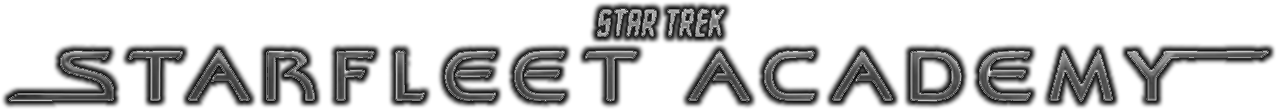
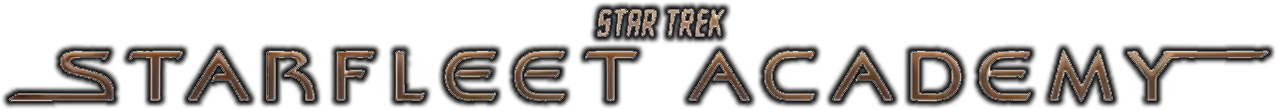
Blog entry and image renaming
SFA S1 Wrapped entry. Renaming of main title images (bw/c)

diff --git a/blog/2026-03-15-Starfleet_Academy_S1_Wrapped.html b/blog/2026-03-15-Starfleet_Academy_S1_Wrapped.html
@@ -1,0 +1,146 @@
+<!DOCTYPE html>
+<html lang="en">
+
+<head>
+
+<!-- Google tag (gtag.js) -->
+<script async src="https://www.googletagmanager.com/gtag/js?id=G-DM44X85QLJ"></script>
+<script>
+	window.dataLayer = window.dataLayer || [];
+	function gtag(){dataLayer.push(arguments);}
+	gtag('consent', 'default', {
+		'ad_user_data': 'denied',
+		'ad_personalization': 'denied',
+		'ad_storage': 'denied',
+		'analytics_storage': 'denied',
+		'wait_for_update': 500,
+	});
+	var host = window.location.hostname;
+	if (host !== "localhost" && host !== "127.0.0.1" && host !== "10.13.83.9" && host !== "") {
+		gtag('js', new Date());
+		gtag('config', 'G-DM44X85QLJ');
+	}
+</script>
+
+<meta content="text/html; charset=utf-8" http-equiv="Content-Type">
+<meta name="darkreader-lock" content="47">
+<link rel="stylesheet" href="/main.css?v=1.5.1">
+<link rel="stylesheet" href="/tts.css?v=1.5.1">
+<link rel="stylesheet" href="blog.css?v=1.5.1">
+<link rel="icon" type="image/x-icon" href="/images/favicon.ico">
+
+<meta property="og:title" content='Starfleet Academy Season 1 Wrapped | C6Reviews'>
+<meta property="og:type" content="article">
+<meta property="og:image" content="https://c6reviews.com/blog/images/2026-03-15/atrium.png">
+<meta property="og:url" content="https://c6reviews.com/blog/2026-03-15-Starfleet_Academy_S1_Wrapped.html">
+<meta property="og:description" content="C6 shares his thoughts on SFA Season 1">
+
+<script src="blog.js"></script>
+<script src="/tts.js"></script>
+<script src="/cookies.js"></script>
+<script>
+	function prepTextToSpeech(id)
+	{
+		let text = document.getElementById(id).innerText.replaceAll("Ake","Ah-kay").replaceAll("—",",").replace("The Academy atrium, graffitied and burning under the despotism of Nus Braka.","").replace("Sadly, Nus Braka's strange “origami chicken” comment in the series premiere was just a one-off and did not become any sort of running gag. Instead, we got a sort of lame, one-liner explanation for why he shaved a tic-tac-toe board into his hair.","").replace("❔","").replace("◼","");
+		return text;
+	}
+</script>
+
+<title>C6 | Starfleet Academy Season 1 Wrapped</title>
+</head>
+
+<body>
+
+<div id='kofiframediv'><iframe id="kofiframe" src='/loader.html' title="kofi frame"></iframe><span id="koficlose" onclick="document.getElementById('kofiframediv').style.height='0px';document.getElementById('kofiframediv').style.border='none';">&times;</span></div>
+
+<div class="c6Left"><a href="/index.html"><img src="/images/c6reviews-vert.png" alt="c6reviews"></a></div>
+<div class="pageTitleImage"><img src="/images/main-header.png" alt="Starfleet Delta" style="mask-image: linear-gradient(to right, rgba(0,0,0,1), rgba(0,0,0,0.8) 40%, rgba(0,0,0,0))"></div>
+<div class="pageTitleContainer">
+	<div class="pageTitle">
+		<a href="/index.html"><img src="/images/c6reviews-hor.png" style="width:350px" alt="c6reviews"></a><br>Starfleet Academy Season 1 Wrapped
+		<span class="pageSubtitle">&nbsp;</span>
+	</div>
+</div>
+<div class="c6Right"><a href="/index.html"><img src="/images/c6.png" alt="a smiling, pale-skinned android with C6 tattooed to his forehead"><img src="/images/c6reviews-hor-noglow.png" style="margin-top:3px" alt="c6reviews"></a><a href="/about.html" style="margin-top:8px;">ABOUT</a><a href="/updates.html">UPDATES</a><a href="/blog/index.html">BLOG</a><a style="cursor:pointer" onclick="if(document.getElementById('kofiframe').src!='https://ko-fi.com/c6reviews/?hidefeed=true&widget=true&embed=true&preview=true'){document.getElementById('kofiframe').src='https://ko-fi.com/c6reviews/?hidefeed=true&widget=true&embed=true&preview=true'};x=getComputedStyle(document.getElementById('kofiframediv')).height;if(x=='0px'){x='700px';y='1px solid white'}else{x='0px';y='none'};document.getElementById('kofiframediv').style.height=x;document.getElementById('kofiframediv').style.border=y;">SUPPORT</a><span class="bsky"><a href="https://bsky.app/profile/c6reviews.bsky.social" target="_blank"><img src="/images/bsky.png" style="width:20px;" alt="bluesky logo">@c6reviews.<br>bsky.social</a></span></div>
+
+
+<div onclick="scrollToTop()" id="toTopButton" title="Go to top">🔺<br>top</div> 
+
+
+<div id="backButton" onclick="window.location = 'index.html';"><span style="font-size:large;font-weight:bold">←</span><br>back</div>
+	
+<div class="content">
+
+	<div class="sectionHeader" style="margin-top:0px">
+		&ldquo;Today we're putting the Federation on trial&rdquo;
+		<span class="TTScontrols"><label><span class="ttsicon">🗣&#xFE0E;</span> <select id="ttsratemain" class="ttsrate"><option value="1">1x</option><option value="1.25">1.25x</option><option value="1.5">1.5x</option><option value="1.75">1.75x</option><option value="2">2x</option></select></label>
+		<button class="TTSplayButton" id="tts1pb" onclick="textToSpeech('tts1',prepTextToSpeech('articleContent'))">⏯&#xFE0E;</button><button class="TTSstopButton" onclick="speechStop()">⏹&#xFE0E;</button></span>
+	</div>
+	<div class="dateline">March 15, 2026</div>
+	
+	<div id="articleContent" style="font-family:CCS,Roboto,serif;">
+
+		<p>With Season 1 of <em>Starfleet Academy</em> officially in the books, of course I have some thoughts I wanted to share. With a more complete picture of what the show wants to be, my opinion has certainly changed a bit since <a href="2026-01-20-Starfleet_Academy_First_Thoughts.html">my initial optimism after episodes 1 and 2</a>, and then <a href="2026-01-25-Starfleet_Academy_Second_Thoughts.html">my note of concern after episode 3</a>. </p>
+		
+		<img src="images/2026-03-15/mir.png" class="articleImage" style="float:right" alt="a yearbook photo of Caleb Mir as a child, marked as part of the class of 3196">
+		
+		<p>I have a couple of things to get out of the way before getting into any specifics. First, I think that all of modern <em>Star Trek</em> &ndash; this show included &ndash; suffers from this 10-episode format, especially in their first seasons. We have brand-new characters that need to be introduced and backstories that need to be presented, and we have such a limited time to do it. As such, character introduction-episodes take up too great of a portion of the season, leaving us with less time for the &ldquo;meat and potatoes&rdquo; episodes. We've hardly gotten to know most of our characters, and we're already out of new stories until next year.</p>
+		
+		<p>The second thing I need to state clearly: I am not a young adult anymore, and this series is obviously targeting a young adult audience. Despite the fact that I <em>was</em> a young adult in the past and that I am capable of remembering life in those days, some of the topics and antics explored on this show just don't resonate with me anymore, and some are downright groan-worthy. However, I always try to temper my opinions with the knowledge that not every television show is written specifically &ldquo;for me&rdquo; and that other people exist. As a life-long fan of <em>Star Trek</em>, I will always try to see the good in each new show, but I will also not candy-coat the situation when I think something was done poorly. That being said, this show can hardly be considered to be <em>exclusively</em> a young adult drama &ndash; there is plenty of story here that doesn't focus on the daily minutiae of 20-somethings life.</p>
+		
+		<p>So many of the articles I read or videos I watch about this show either take the stance of hating every possible thing about it, or they artificially praise the show as a stroke of genius just to counter the former. I don't know why a measured approach is so rare to find. (Actually, I do know: articles that don't commit to an extreme that either supports your opinion or directly challenges it aren't as satisfying to read.) Is <em>Star Trek: Starfleet Academy</em> a terrible show with no redeeming qualities? Certainly not! Is it a masterpiece to be lauded as the finest example of modern storytelling? Also certainly not. <em>It's okay to have mixed feelings about the show.</em></p>
+		
+		<p>Okay, I've stood on my soap box for far too long. Let's get into it:</p>
+		
+		<p><strong><span style="font-size:large;text-shadow: red 2px 2px 8px">👎 </span>Furniture without legs was an unsustainable style choice</strong> &mdash; I want to open with this niche complaint about the setting. This story takes place in the 32nd century, after the events of seasons 3-5 of <em>Star&nbsp;Trek:&nbsp;Discovery</em>, which was the first show to introduce what life was like in this far-future. One of the defining style characteristics for this century as depicted in <em>Discovery</em> &ndash; for whatever reason &ndash; was furniture that just &ldquo;floated&rdquo;. Chairs and tables did not have legs reaching down to the ground. This was done, obviously, with CGI manipulation. And that CGI manipulation was, obviously, not going to be practical to maintain in every future scene that takes place in the 3100s. And so, here we are, back to more traditional leg-based furniture.</p>
+		
+		<p><strong><span style="font-size:large;text-shadow: green 2px 2px 8px">👍 </span>Holly Hunter as Nahla Ake</strong> &mdash; I admit, I was skeptical at first, but I really warmed up to Hunter's portrayal of the Academy Chancellor. Ake brings a warmth and wisdom to the students while also being a strong commanding officer.</p>
+		
+		<p><strong><span style="font-size:large;text-shadow: blue 2px 2px 8px">🤷♂ </span>War College rivalry</strong> &mdash; I mean, obviously part of being in a higher-education institution is having some rivalry with some other higher-education institution so... this was definitely necessary, right? I'm not really sure. The War College only appears in a few episodes, just to have that rivalry, and they never really became an important part of the overall season.</p>
+		
+		<p><strong><span style="font-size:large;text-shadow: green 2px 2px 8px">👍 </span>Jay-Den's backstory</strong> &mdash; ah, now here's something <em>Star Trek</em> is known for: using alien cultures to hold up a mirror to our own. Here, Jay-Den feeling like a black sheep in his own family because he doesn't conform to traditional Klingon values is an allegory for today's youth who may face strife in their own families when questioning their own identities and values. Of course, the metaphor here may be a little on the nose for some people, inviting some vitriolic reactions from other commentators, but I invite you to remember that Klingons are a fictional race in a fictional universe.</p>
+		
+		<p><strong><span style="font-size:large;text-shadow: red 2px 2px 8px">👎 </span>Reymi's backstory</strong> &mdash; Darem Reymi is just all over the place. Producers invented a brand-new, never-before-seen species for the show, and we ended up with... someone who looks perfectly human, but can turn into a fish-like creature with gills which can conveniently withstand the vacuum of space, has trouble digesting many foods, vomits glitter, starts off as a bully, but is really just misunderstood because he's actually... *rolls dice* a prince, why not? I want to like this character, I just need him to find his center. I'm hoping that next season will help to better shape Reymi's character, because as it stands, I felt like his backstory episode was more of a detracting side-quest than a vital part of the story.</p>
+		
+		<p><strong><span style="font-size:large;text-shadow: blue 2px 2px 8px">🤷♂ </span>Ake killed her own son, or something?</strong> &mdash; This clearly-traumatic bit of Ake's past is an important part of what makes her who she is today, but it's only sort of mentioned in passing in episode 6 just so that it can become a talking point in the season finale. I think this bit of history needed a flashback scene, so that the audience could better absorb the event as part of Ake's past, instead of just being told about it.</p>
+		
+		<p><strong><span style="font-size:large;text-shadow: green 2px 2px 8px">👍 </span>Love Letter to <em>DS9</em></strong> &mdash; unsurprisingly, I was a big fan of episode 5, with special guest star <a href="https://memory-alpha.fandom.com/wiki/Cirroc_Lofton" target="_blank">Cirroc Lofton</a> reprising his role as <strong>Jake Sisko</strong>. I did find it strange, however, that there was a post-title thanking actor <a href="https://memory-alpha.fandom.com/wiki/Avery_Brooks" target="_blank">Avery Brooks</a> (<strong>Ben Sisko</strong>), directly. That sort of direct reference to <em>Trek</em> actors is usually only reserved for when they pass away. Of course, I really wish they'd do more to bring closure to the <em>Deep Space Nine</em> story. A two-season streaming story, a 4-episode mini-series... heck, I'd take a 90-minute straight-to-streaming film at this point! I have a totally unsubstantiated theory that Avery Brooks might have been approached about it, but is not amenable to the idea. Maybe &ldquo;Thanks, Avery&rdquo; is part of a campaign to coax him back? I'm making this all up: it's just wishful thinking on my part.</p>
+		
+		<p><strong><span style="font-size:large;text-shadow: red 2px 2px 8px">👎 </span>Episode 8: The Life of the Stars</strong> &mdash; I need to tread carefully here, because this episode is definitely the least action-packed and the most introspective of the season, with lots of dialog discussing personal feelings and interpersonal connections, and &ndash; considering how audiences negatively reacted to similar episodes in <a href="/pic/pic-2.html"><em>Picard</em> Season 2</a> &ndash; I predict that this episode will be the biggest target among the &ldquo;haters&rdquo;. Just as I defended introspection and personal journeys in Season 2 of <em>Picard</em>, I would normally defend them here, too... but, I still think this episode is the weakest of the season. The Doctor/SAM storyline directly references <a href="/voy/voy-s3.html#e22">VOY 3x22: Real Life</a>, where the Doctor created a holographic family for himself and suffered through the tragic loss of his daughter. In my review of that <em>Voyager</em> episode, I used the phrase &ldquo;manufactured drama&rdquo; to describe the story, and I see a lot of that in this <em>Starfleet Academy</em> episode, too. I just don't think we've spent enough time with these characters to truly, deeply feel the emotions this episode is trying to evoke. And the rest is just... Tilly psychology-bullying the cadets until they exorcise their supposed traumas. With so much soft piano and slow, drawn-out scenes, this episode was just a real slog. Oh, except for the part where we just fast-forward through SAM's rebirth and childhood because of a convenient sci-fi time differential.</p>
+		
+		<p><strong><span style="font-size:large;text-shadow: blue 2px 2px 8px">🤷♂ </span>What happened to Lura?</strong> &mdash; The character of Lura Thok was an early favorite for me, but then she just goes missing for half the season and barely even makes an appearance in the finale!</p>
+		
+		<p><strong><span style="font-size:large;text-shadow: red 2px 2px 8px">👎 </span>Caleb forgets his password</strong> &mdash; Do you mean to tell me that the main plot hasn't progressed until the 9th episode because Caleb didn't think to decrypt transmissions with a 7-character codeword? Argh.</p>
+		
+		<p><strong><span style="font-size:large;text-shadow: blue 2px 2px 8px">🤷♂ </span>Caleb's Quest</strong> &mdash; Predictably, the season is a story-sandwich, with the compelling tale about Caleb and his mother in episodes 1, 2, 9, and 10... with barely a mention of it in the middle six episodes. The season finale does effectively wrap it all up in a neat package, but parts of the middle still felt a little hollow.</p>
+		
+		<p><strong><span style="font-size:large;text-shadow: green 2px 2px 8px">👍 </span>The season finale</strong> &mdash; It was worth the ride, in the end. I enjoyed the conclusion, and the atmosphere of the ad-hoc trial in the graffitied atrium. It reminded me of Sander Cohen's stage in <a href="https://bioshock.fandom.com/wiki/Fort_Frolic" target="_blank">Fort Frolic</a> from <em>BioShock</em> &ndash; I know, that's not an especially timely reference, and I'm crossing universes. Anyway, after all of the strife and drama, there was something very relieving about once again hearing that running gag about the Talaxian furfly from the Digital Dean of Students (voiced by <a href="https://memory-alpha.fandom.com/wiki/Stephen_Colbert" target="_blank">Stephen Colbert</a>), signaling that things were getting back to normal.</p>
+		
+		<figure class="articleImage" style="margin:auto"><img src="images/2026-03-15/atrium.png" style="width:800px" alt=""><br><figcaption>The Academy atrium, graffitied and burning under the despotism of Nus Braka.</figcaption></figure>
+		
+		<hr style="width:50%;margin-top:50px;margin-bottom:50px">
+		
+		<figure class="articleImage" style="width:300px;float:left"><img src="images/2026-03-15/origami_chicken.png" style="width:300px" alt="an origami chicken"><br><figcaption>Sadly, Nus Braka's strange &ldquo;origami chicken&rdquo; comment in the series premiere was just a one-off and did not become any sort of running gag. Instead, we got a sort of lame, one-liner explanation for why he shaved a tic-tac-toe board into his hair.</figcaption></figure>
+		
+		<p><strong><span style="font-size:large;text-shadow: yellow 2px 2px 8px">❔ </span>The question</strong> I find myself asking is this: other than the time and setting, is there something in this series that takes advantage of the uniqueness of &ldquo;<em>Star Trek</em>&rdquo;, or does it simply borrow elements from that universe and make an otherwise-generic young adult drama? One way to begin to answer that question is to strip away the sci-fi elements and see what remains &ndash; see how much of the story stands on its own and how much falls apart. Does the story still work if everyone is human, on Earth, in... say... 2026? If so, does it really need to be &ldquo;in space&rdquo;? See, today, there is nothing analogous to space exploration here on Earth, and <em>Star Trek</em> has often used the vast unknown as a stage to explore ideas by using alien species as vehicles to examine the human condition. Is <em>SFA</em> doing that? I am not fully prepared to answer that question at this time.</p>
+		
+		<p>As many fans will tell you, one of the core tenets of <em>Star Trek</em> is optimism, even in the face of adversity. <em>SFA</em> accomplishes this by taking a character who has faced adversity almost his entire life and who has settled into a constant state of pessimism, throwing that character into the warm embrace of the Academy and showing him that joy is still accessible in the universe, and finally having that character reflect on his experiences over the last year to extol the ideals on which Starfleet and the Federation are built. It is effective, if a bit obtuse. Caleb's appeal in the finale reminds me a bit of Burnham's similar address in the Season 1 finale of <em>Star&nbsp;Trek:&nbsp;Discovery</em> where she states concretely that the Federation is &ldquo;good&rdquo; and &ldquo;moral&rdquo;, just in case the audience wasn't sure. I find this eulogizing to be far less convincing than witnessing the Federation's integrity through its actions. Still, Caleb's remarks do at least logically flow from his year of experience at the academy.</p>
+		
+		<p>One more sort of meta-note about this show. I don't know if anyone else has experienced this, but I have repeatedly noticed how difficult it is to <em>find</em> this show in the Paramount+ interface. Even on days when a new episode is released, finding the show on the main page is often next to impossible. It's buried behind banners for other shows, and it doesn't even show up on my &ldquo;continue watching&rdquo; list. Paramount+ should know that I, personally, watch a ton of <em>Star Trek</em>. It often suggests <em>Trek</em> shows and movies to me that I haven't watched recently, but to watch a new episode of <em>SFA</em>, I sometimes have to literally go to the search bar to get to it. I'm not sure if this is intentional or accidental, but it's doing the show a disservice.</p>
+		
+		<p>Overall, <em>Star Trek: Starfleet Academy</em> has some great ideas and a promising core story, but it's just not quite &ldquo;there&rdquo; yet. I am looking forward to another season and I'm optimistic that the show can pick itself up with more time to expand its story. ◼</p>
+
+	</div>
+	
+	
+</div> <!-- content div ends here -->
+<p>&nbsp;</p>
+<div class="toTopFooter"><a onClick="scrollToTop()">▲ Back to Top ▲</a></div>
+<div class="pageFooter"><a href="/index.html"><img src="/images/c6reviews-hor.png" alt="c6reviews" style="transform: translateY(-1px);"></a>&nbsp;&nbsp;&nbsp;&nbsp;&nbsp;<a href="/about.html">ABOUT</a>&nbsp;&nbsp;<a href="/updates.html">UPDATES</a>&nbsp;&nbsp;<a href="/blog/index.html">BLOG</a>&nbsp;&nbsp;<a style="cursor:pointer" onclick="if(document.getElementById('kofiframe').src!='https://ko-fi.com/c6reviews/?hidefeed=true&widget=true&embed=true&preview=true'){document.getElementById('kofiframe').src='https://ko-fi.com/c6reviews/?hidefeed=true&widget=true&embed=true&preview=true'};x=getComputedStyle(document.getElementById('kofiframediv')).height;if(x=='0px'){x='700px';y='1px solid white'}else{x='0px';y='none'};document.getElementById('kofiframediv').style.height=x;document.getElementById('kofiframediv').style.border=y;">SUPPORT</a><span class="bsky"><a href="https://bsky.app/profile/c6reviews.bsky.social" target="_blank" style="display: flex;align-items: center;"><img src="/images/bsky.png" alt="bluesky logo">@c6reviews.bsky.social</a></span></div>
+<div class="legalCopy">This is an independent fan site and is not affiliated with or endorsed by Paramount Global. Star Trek and all related marks, logos, and characters are the property of Paramount Global.<br><a onClick="unsetAllCookies()">Reset Cookie Preferences</a></div>
+<div id="TTDIV"></div>
+
+
+<div id="bottomBorder"></div>
+</body>
+</html>

diff --git a/blog/index.html b/blog/index.html
@@ -24,10 +24,10 @@
 
 <meta content="text/html; charset=utf-8" http-equiv="Content-Type">
 <meta name="darkreader-lock" content="47">
-<link rel="stylesheet" href="../main.css?v=1.5.1">
-<link rel="stylesheet" href="../tts.css?v=1.5.1">
+<link rel="stylesheet" href="/main.css?v=1.5.1">
+<link rel="stylesheet" href="/tts.css?v=1.5.1">
 <link rel="stylesheet" href="blog.css?v=1.5.1">
-<link rel="icon" type="image/x-icon" href="../images/favicon.ico">
+<link rel="icon" type="image/x-icon" href="/images/favicon.ico">
 <meta property="og:image" content="https://c6reviews.com/images/ogimage.png">
 
 <meta property="og:title" content="Blog | C6Reviews">
@@ -37,8 +37,8 @@
 <meta property="og:description" content="C6Reviews periodic musings about Star Trek.">
 
 <script src="blog.js"></script>
-<script src="../tts.js"></script>
-<script src="../cookies.js"></script>
+<script src="/tts.js"></script>
+<script src="/cookies.js"></script>
 <script>
 	function prepTextToSpeech(id)
 	{
@@ -52,17 +52,17 @@
 
 <body>
 
-<div id='kofiframediv'><iframe id="kofiframe" src='../loader.html' title="kofi frame"></iframe><span id="koficlose" onclick="document.getElementById('kofiframediv').style.height='0px';document.getElementById('kofiframediv').style.border='none';">&times;</span></div>
+<div id='kofiframediv'><iframe id="kofiframe" src='/loader.html' title="kofi frame"></iframe><span id="koficlose" onclick="document.getElementById('kofiframediv').style.height='0px';document.getElementById('kofiframediv').style.border='none';">&times;</span></div>
 
-<div class="c6Left"><a href="../index.html"><img src="../images/c6reviews-vert.png" alt="c6reviews"></a></div>
-<div class="pageTitleImage"><img src="../images/main-header.png" alt="Starfleet Delta" style="mask-image: linear-gradient(to right, rgba(0,0,0,1), rgba(0,0,0,0.8) 40%, rgba(0,0,0,0))"></div>
+<div class="c6Left"><a href="/index.html"><img src="/images/c6reviews-vert.png" alt="c6reviews"></a></div>
+<div class="pageTitleImage"><img src="/images/main-header.png" alt="Starfleet Delta" style="mask-image: linear-gradient(to right, rgba(0,0,0,1), rgba(0,0,0,0.8) 40%, rgba(0,0,0,0))"></div>
 <div class="pageTitleContainer">
 	<div class="pageTitle">
-		<a href="../index.html"><img src="../images/c6reviews-hor.png" style="width:350px" alt="c6reviews"></a><br>BLOG
+		<a href="/index.html"><img src="/images/c6reviews-hor.png" style="width:350px" alt="c6reviews"></a><br>BLOG
 		<span class="pageSubtitle">&nbsp;</span>
 	</div>
 </div>
-<div class="c6Right"><a href="../index.html"><img src="../images/c6.png" alt="a smiling, pale-skinned android with C6 tattooed to his forehead"><img src="../images/c6reviews-hor-noglow.png" style="margin-top:3px" alt="c6reviews"></a><a href="../about.html" style="margin-top:8px;">ABOUT</a><a href="../updates.html">UPDATES</a><a href="../blog/index.html">BLOG</a><a style="cursor:pointer" onclick="if(document.getElementById('kofiframe').src!='https://ko-fi.com/c6reviews/?hidefeed=true&widget=true&embed=true&preview=true'){document.getElementById('kofiframe').src='https://ko-fi.com/c6reviews/?hidefeed=true&widget=true&embed=true&preview=true'};x=getComputedStyle(document.getElementById('kofiframediv')).height;if(x=='0px'){x='700px';y='1px solid white'}else{x='0px';y='none'};document.getElementById('kofiframediv').style.height=x;document.getElementById('kofiframediv').style.border=y;">SUPPORT</a><span class="bsky"><a href="https://bsky.app/profile/c6reviews.bsky.social" target="_blank"><img src="../images/bsky.png" style="width:20px;" alt="bluesky logo">@c6reviews.<br>bsky.social</a></span></div>
+<div class="c6Right"><a href="/index.html"><img src="/images/c6.png" alt="a smiling, pale-skinned android with C6 tattooed to his forehead"><img src="/images/c6reviews-hor-noglow.png" style="margin-top:3px" alt="c6reviews"></a><a href="/about.html" style="margin-top:8px;">ABOUT</a><a href="/updates.html">UPDATES</a><a href="/blog/index.html">BLOG</a><a style="cursor:pointer" onclick="if(document.getElementById('kofiframe').src!='https://ko-fi.com/c6reviews/?hidefeed=true&widget=true&embed=true&preview=true'){document.getElementById('kofiframe').src='https://ko-fi.com/c6reviews/?hidefeed=true&widget=true&embed=true&preview=true'};x=getComputedStyle(document.getElementById('kofiframediv')).height;if(x=='0px'){x='700px';y='1px solid white'}else{x='0px';y='none'};document.getElementById('kofiframediv').style.height=x;document.getElementById('kofiframediv').style.border=y;">SUPPORT</a><span class="bsky"><a href="https://bsky.app/profile/c6reviews.bsky.social" target="_blank"><img src="/images/bsky.png" style="width:20px;" alt="bluesky logo">@c6reviews.<br>bsky.social</a></span></div>
 
 
 <div onclick="scrollToTop()" id="toTopButton" title="Go to top">🔺<br>top</div> 
@@ -72,6 +72,13 @@
 	
 <div class="content" style="width:70%;margin:auto">
 
+	<div class="blogEntry">
+		<a href="2026-03-15-Starfleet_Academy_S1_Wrapped.html"><img class="blogImg" src="images/2026-03-15/mir.png" alt="a yearbook photo of Caleb Mir as a young child"></a>
+		<div class="blogDate">15 Mar 2026</div><br>
+		<a href="2026-03-15-Starfleet_Academy_S1_Wrapped.html" class="blogTitle"><em>Starfleet Academy</em>: Season 1 Wrapped</a><br>
+		<span class="blogTag">First Thoughts</span> <span class="blogTag">Star Trek: Starfleet Academy</span> 
+	</div>
+	
 	<div class="blogEntry">
 		<a href="2026-01-25-Starfleet_Academy_Second_Thoughts.html"><img class="blogImg" src="images/2026-01-25/thok.png" alt="Commander Lura Thok"></a>
 		<div class="blogDate">25 Jan 2026</div><br>
@@ -100,7 +107,7 @@
 	</div>
 	
 	<div class="blogEntry">
-		<a href="2025-11-13-SNW_S4_Clip_and_S3_Reflections.html"><img class="blogImg" src="../images/marquee/SNWs4.png" alt="a dorsal view of the Enterprise above a brilliant orange nebula"></a>
+		<a href="2025-11-13-SNW_S4_Clip_and_S3_Reflections.html"><img class="blogImg" src="/images/marquee/SNWs4.png" alt="a dorsal view of the Enterprise above a brilliant orange nebula"></a>
 		<div class="blogDate">13 Nov 2025</div><br>
 		<a href="2025-11-13-SNW_S4_Clip_and_S3_Reflections.html" class="blogTitle"><em>Strange New Worlds</em> Season 4 Clip and Season 3 Reflections</a><br>
 		<span class="blogTag">Star Trek: Strange New Worlds</span>
@@ -123,7 +130,7 @@
 
 <p>&nbsp;</p>
 <div class="toTopFooter"><a onClick="scrollToTop()">▲ Back to Top ▲</a></div>
-<div class="pageFooter"><a href="../index.html"><img src="../images/c6reviews-hor.png" alt="c6reviews" style="transform: translateY(-1px);"></a>&nbsp;&nbsp;&nbsp;&nbsp;&nbsp;<a href="../about.html">ABOUT</a>&nbsp;&nbsp;<a href="../updates.html">UPDATES</a>&nbsp;&nbsp;<a href="../blog/index.html">BLOG</a>&nbsp;&nbsp;<a style="cursor:pointer" onclick="if(document.getElementById('kofiframe').src!='https://ko-fi.com/c6reviews/?hidefeed=true&widget=true&embed=true&preview=true'){document.getElementById('kofiframe').src='https://ko-fi.com/c6reviews/?hidefeed=true&widget=true&embed=true&preview=true'};x=getComputedStyle(document.getElementById('kofiframediv')).height;if(x=='0px'){x='700px';y='1px solid white'}else{x='0px';y='none'};document.getElementById('kofiframediv').style.height=x;document.getElementById('kofiframediv').style.border=y;">SUPPORT</a><span class="bsky"><a href="https://bsky.app/profile/c6reviews.bsky.social" target="_blank" style="display: flex;align-items: center;"><img src="../images/bsky.png" alt="bluesky logo">@c6reviews.bsky.social</a></span></div>
+<div class="pageFooter"><a href="/index.html"><img src="/images/c6reviews-hor.png" alt="c6reviews" style="transform: translateY(-1px);"></a>&nbsp;&nbsp;&nbsp;&nbsp;&nbsp;<a href="/about.html">ABOUT</a>&nbsp;&nbsp;<a href="/updates.html">UPDATES</a>&nbsp;&nbsp;<a href="/blog/index.html">BLOG</a>&nbsp;&nbsp;<a style="cursor:pointer" onclick="if(document.getElementById('kofiframe').src!='https://ko-fi.com/c6reviews/?hidefeed=true&widget=true&embed=true&preview=true'){document.getElementById('kofiframe').src='https://ko-fi.com/c6reviews/?hidefeed=true&widget=true&embed=true&preview=true'};x=getComputedStyle(document.getElementById('kofiframediv')).height;if(x=='0px'){x='700px';y='1px solid white'}else{x='0px';y='none'};document.getElementById('kofiframediv').style.height=x;document.getElementById('kofiframediv').style.border=y;">SUPPORT</a><span class="bsky"><a href="https://bsky.app/profile/c6reviews.bsky.social" target="_blank" style="display: flex;align-items: center;"><img src="/images/bsky.png" alt="bluesky logo">@c6reviews.bsky.social</a></span></div>
 <div class="legalCopy">This is an independent fan site and is not affiliated with or endorsed by Paramount Global. Star Trek and all related marks, logos, and characters are the property of Paramount Global.<br><a onClick="unsetAllCookies()">Reset Cookie Preferences</a></div>
 <div id="TTDIV"></div>
 

diff --git a/index.html b/index.html
@@ -75,13 +75,10 @@
 				<div class="marquee-controls"><span onClick="scrollPages('back')">◄&#xFE0E;</span><span class="marquee-pause" onClick="pauseMarquee(this)">⏸&#xFE0E;</span><span onClick="scrollPages()">►&#xFE0E;</span><br><span class="marquee-page-indicator"></span></div>
 				<div id="mainMarqueeTrack" class="marquee-track">
 				
-					<div class="marquee-page" style="padding-left:275px;">
-						<img class="marqueeImg" src="blog/images/2026-01-20/chair.png" alt="Lura Thok in the foreground, with Captain Ake in the background, peeking over the armrest of her Captain's chair, with her legs nearly straight up in the air">
-						<div class="marqueeTitle">STAR TREK: STARFLEET ACADEMY</div>
-						<div class="marqueeSubtitle">Episode 1, 2, &amp; 3 First Thoughts</div>
-						<div class="marqueeContent">Despite some predictable moments and silly chair acrobatics, the first two episodes of <em>Star&nbsp;Trek:&nbsp;Starfleet&nbsp;Academy</em> are better than the previews led me to believe. <a href="blog/2026-01-20-Starfleet_Academy_First_Thoughts.html">Read more ❱</a>
-						<br><br>
-						And then Episode 3 devolves into juvenile antics, and I try to comprehend how Lura Thok makes critics so upset. <a href="blog/2026-01-25-Starfleet_Academy_Second_Thoughts.html">Read more ❱</a>
+					<div class="marquee-page" style="padding-left:350px;">
+						<img class="marqueeImg" src="blog/images/2026-03-15/atrium.png" alt="the Academy atrium, graffitied and burning">
+						<div class="marqueeTitle">STARFLEET ACADEMY SEASON 1 WRAPPED</div>
+						<div class="marqueeContent">Season 1 of <em>Star&nbsp;Trek:&nbsp;Starfleet&nbsp;Academy</em> is in the books. So, is it as good or as bad as everyone says? <a href="blog/2026-03-15-Starfleet_Academy_S1_Wrapped.html">Read more ❱</a>
 						</div>
 					</div>
 					<div class="marquee-page">
@@ -168,7 +165,7 @@
 				<img src="images/tos.png" class="seriesCardBG inactive" alt="The USS Enterprise NCC-1701">
 				<table class="seriesCardTitle">
 					<tr>
-						<td><img src="images/tos-title.png" alt="Star Trek [The Original Series]" class="inactive"></td>
+						<td><img src="images/tos-title-bw.png" alt="Star Trek [The Original Series]" class="inactive"></td>
 					</tr>
 				</table>
 				<img src="images/coming-someday.png" class="comingSoonFlag" alt="coming someday">
@@ -177,7 +174,7 @@
 				<img src="images/tas.png" class="seriesCardBG inactive" alt="a drawing of the USS Enterprise NCC-1701">
 				<table class="seriesCardTitle">
 					<tr>
-						<td><img src="images/tas-title.png" alt="Star Trek: The Animated Series" style="width:50%" class="inactive"></td>
+						<td><img src="images/tas-title-bw.png" alt="Star Trek: The Animated Series" style="width:50%" class="inactive"></td>
 					</tr>
 				</table>
 				<img src="images/coming-someday.png" class="comingSoonFlag" alt="coming someday">
@@ -216,7 +213,7 @@
 				<img src="images/ent.png" class="seriesCardBG inactive" alt="The Enterprise NX-01">
 				<table class="seriesCardTitle">
 					<tr>
-						<td><img src="images/ent-title.png" alt="Star Trek: Enterprise" class="inactive"></td>
+						<td><img src="images/ent-title-bw.png" alt="Star Trek: Enterprise" class="inactive"></td>
 					</tr>
 				</table>
 				<img src="images/coming-someday.png" class="comingSoonFlag" alt="coming someday">
@@ -225,7 +222,7 @@
 				<img src="images/dis.png" class="seriesCardBG inactive" alt="The USS Discovery NCC-1031 flying into a rift">
 				<table class="seriesCardTitle">
 					<tr>
-						<td><img src="images/dis-title.png" alt="Star Trek: Discovery" class="inactive"></td>
+						<td><img src="images/dis-title-bw.png" alt="Star Trek: Discovery" class="inactive"></td>
 					</tr>
 				</table>
 				<img src="images/coming-someday.png" class="comingSoonFlag" alt="coming someday">
@@ -244,7 +241,7 @@
 				<img src="images/low.png" class="seriesCardBG inactive" alt="The USS Cerritos NCC-75567 knocking over a stalagmite made of ice">
 				<table class="seriesCardTitle">
 					<tr>
-						<td style="vertical-align:bottom"><img src="images/low-title.png" alt="Star Trek: Lower Decks" style="width:50%" class="inactive"></td>
+						<td style="vertical-align:bottom"><img src="images/low-title-bw.png" alt="Star Trek: Lower Decks" style="width:50%" class="inactive"></td>
 					</tr>
 				</table>
 				<img src="images/coming-next.png" class="comingSoonFlag" alt="coming up next!">
@@ -263,7 +260,7 @@
 				<img src="images/snw.png" class="seriesCardBG inactive" alt="an aft view of the USS Enterprise NCC-1701">
 				<table class="seriesCardTitle">
 					<tr>
-						<td><img src="images/snw-title.png" alt="Star Trek: Strange New Worlds" class="inactive"></td>
+						<td><img src="images/snw-title-bw.png" alt="Star Trek: Strange New Worlds" class="inactive"></td>
 					</tr>
 				</table>
 				<img src="images/coming-someday.png" class="comingSoonFlag" alt="coming someday">
@@ -272,7 +269,7 @@
 				<img src="images/sfa.png" class="seriesCardBG inactive" alt="the Starfleet Academy building at the San Francisco bay">
 				<table class="seriesCardTitle">
 					<tr>
-						<td><img src="images/sfa-title.png" alt="Star Trek: Starfleet Academy" class="inactive" style="width:80%;"></td>
+						<td><img src="images/sfa-title-bw.png" alt="Star Trek: Starfleet Academy" class="inactive" style="width:80%;"></td>
 					</tr>
 				</table>
 				<img src="images/coming-someday.png" class="comingSoonFlag" alt="coming someday">

diff --git a/blog/blog.css b/blog/blog.css
@@ -83,8 +83,9 @@ h2 {
 	text-align: center;
 	font-family: Roboto, sans-serif;
 	font-style: italic;
+	em {font-style: normal};
 	font-size: small;
-	margin: 8px 12px;
+	margin: 8px 25px;
 	padding-bottom: 3px;
 	border-bottom: 1px dotted #C0C0C0;
 	width: fit-content;
